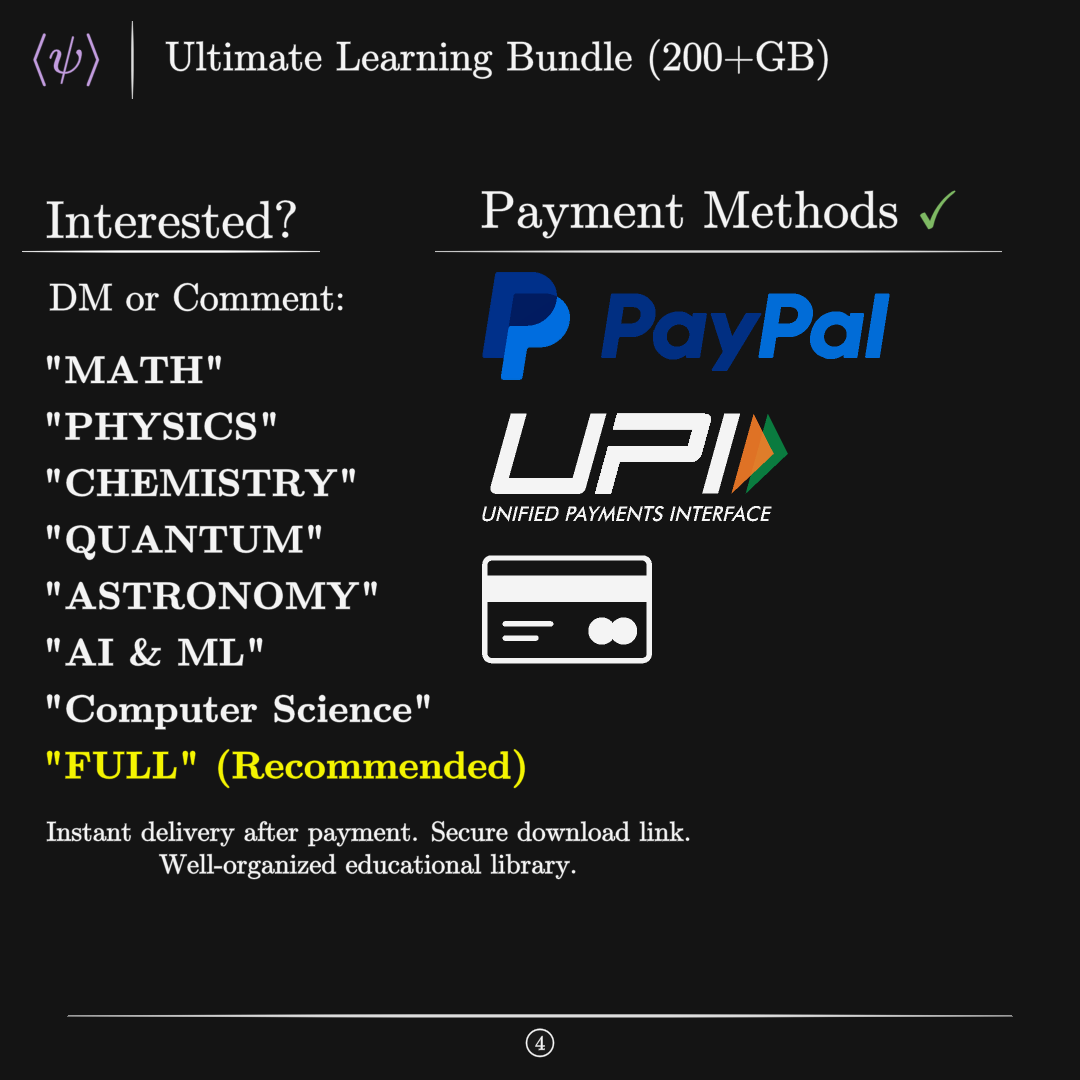
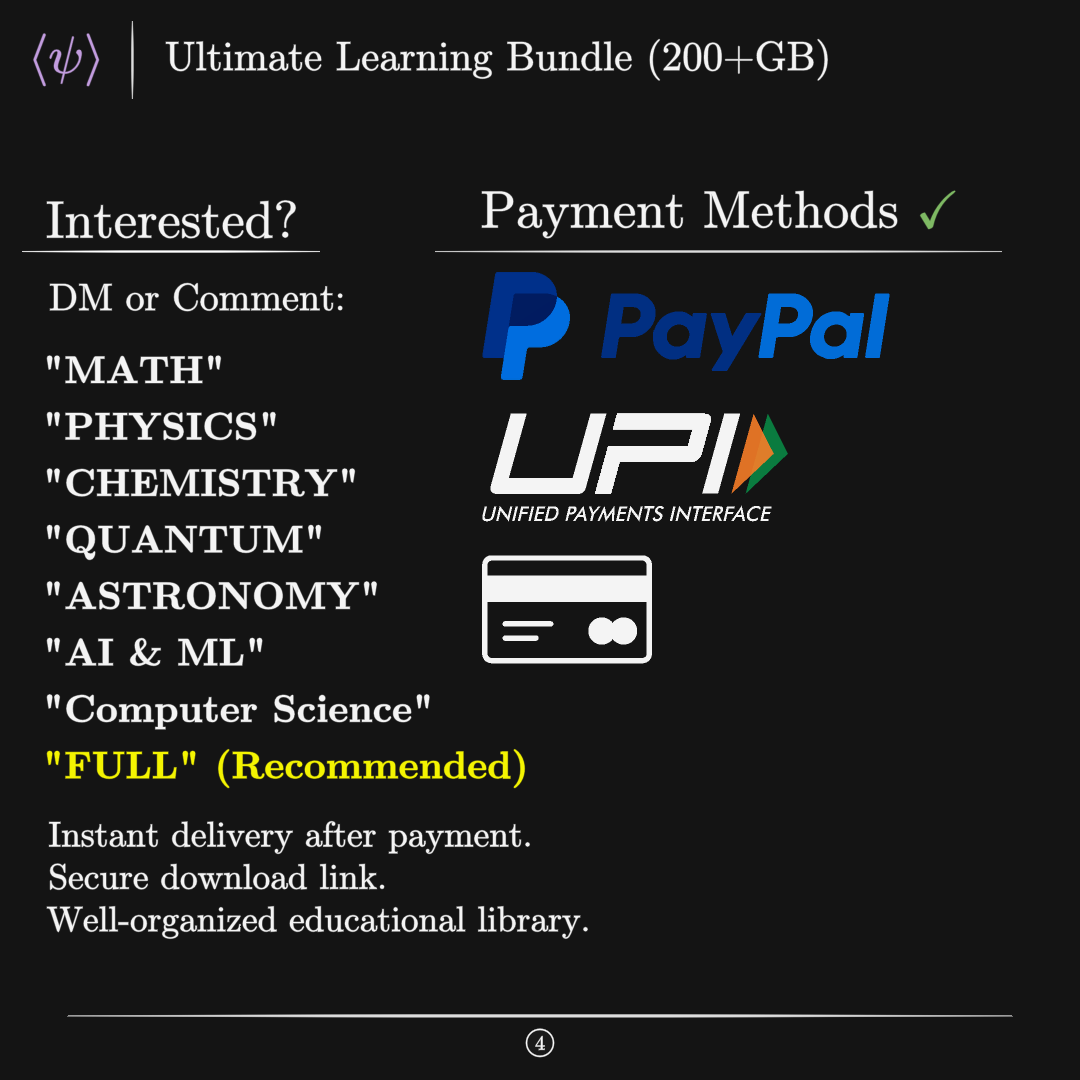
f

Changed region(s): [[0.0306, 0.7639, 0.6417, 0.8861]]

diff --git a/test.py b/test.py
@@ -197,11 +197,11 @@ class Payment(PaidTemplate):
 
         info = TexText(
             r"""
-            Instant delivery after payment.
+            Instant delivery after payment.\\
             Secure download link.\\
             Well-organized educational library.
-            """,
-            font_size=20,
+            """, alignment=R"\flushleft",
+            font_size=26,
         )
         info.next_to(body, DOWN, aligned_edge=LEFT)
         self.add(info)

diff --git a/latex_cache/working.tex b/latex_cache/working.tex
@@ -26,8 +26,8 @@
 
 \begin{document}
 
-\centering
-Instant delivery after payment.
+\flushleft
+Instant delivery after payment.\\
             Secure download link.\\
             Well-organized educational library.
 
